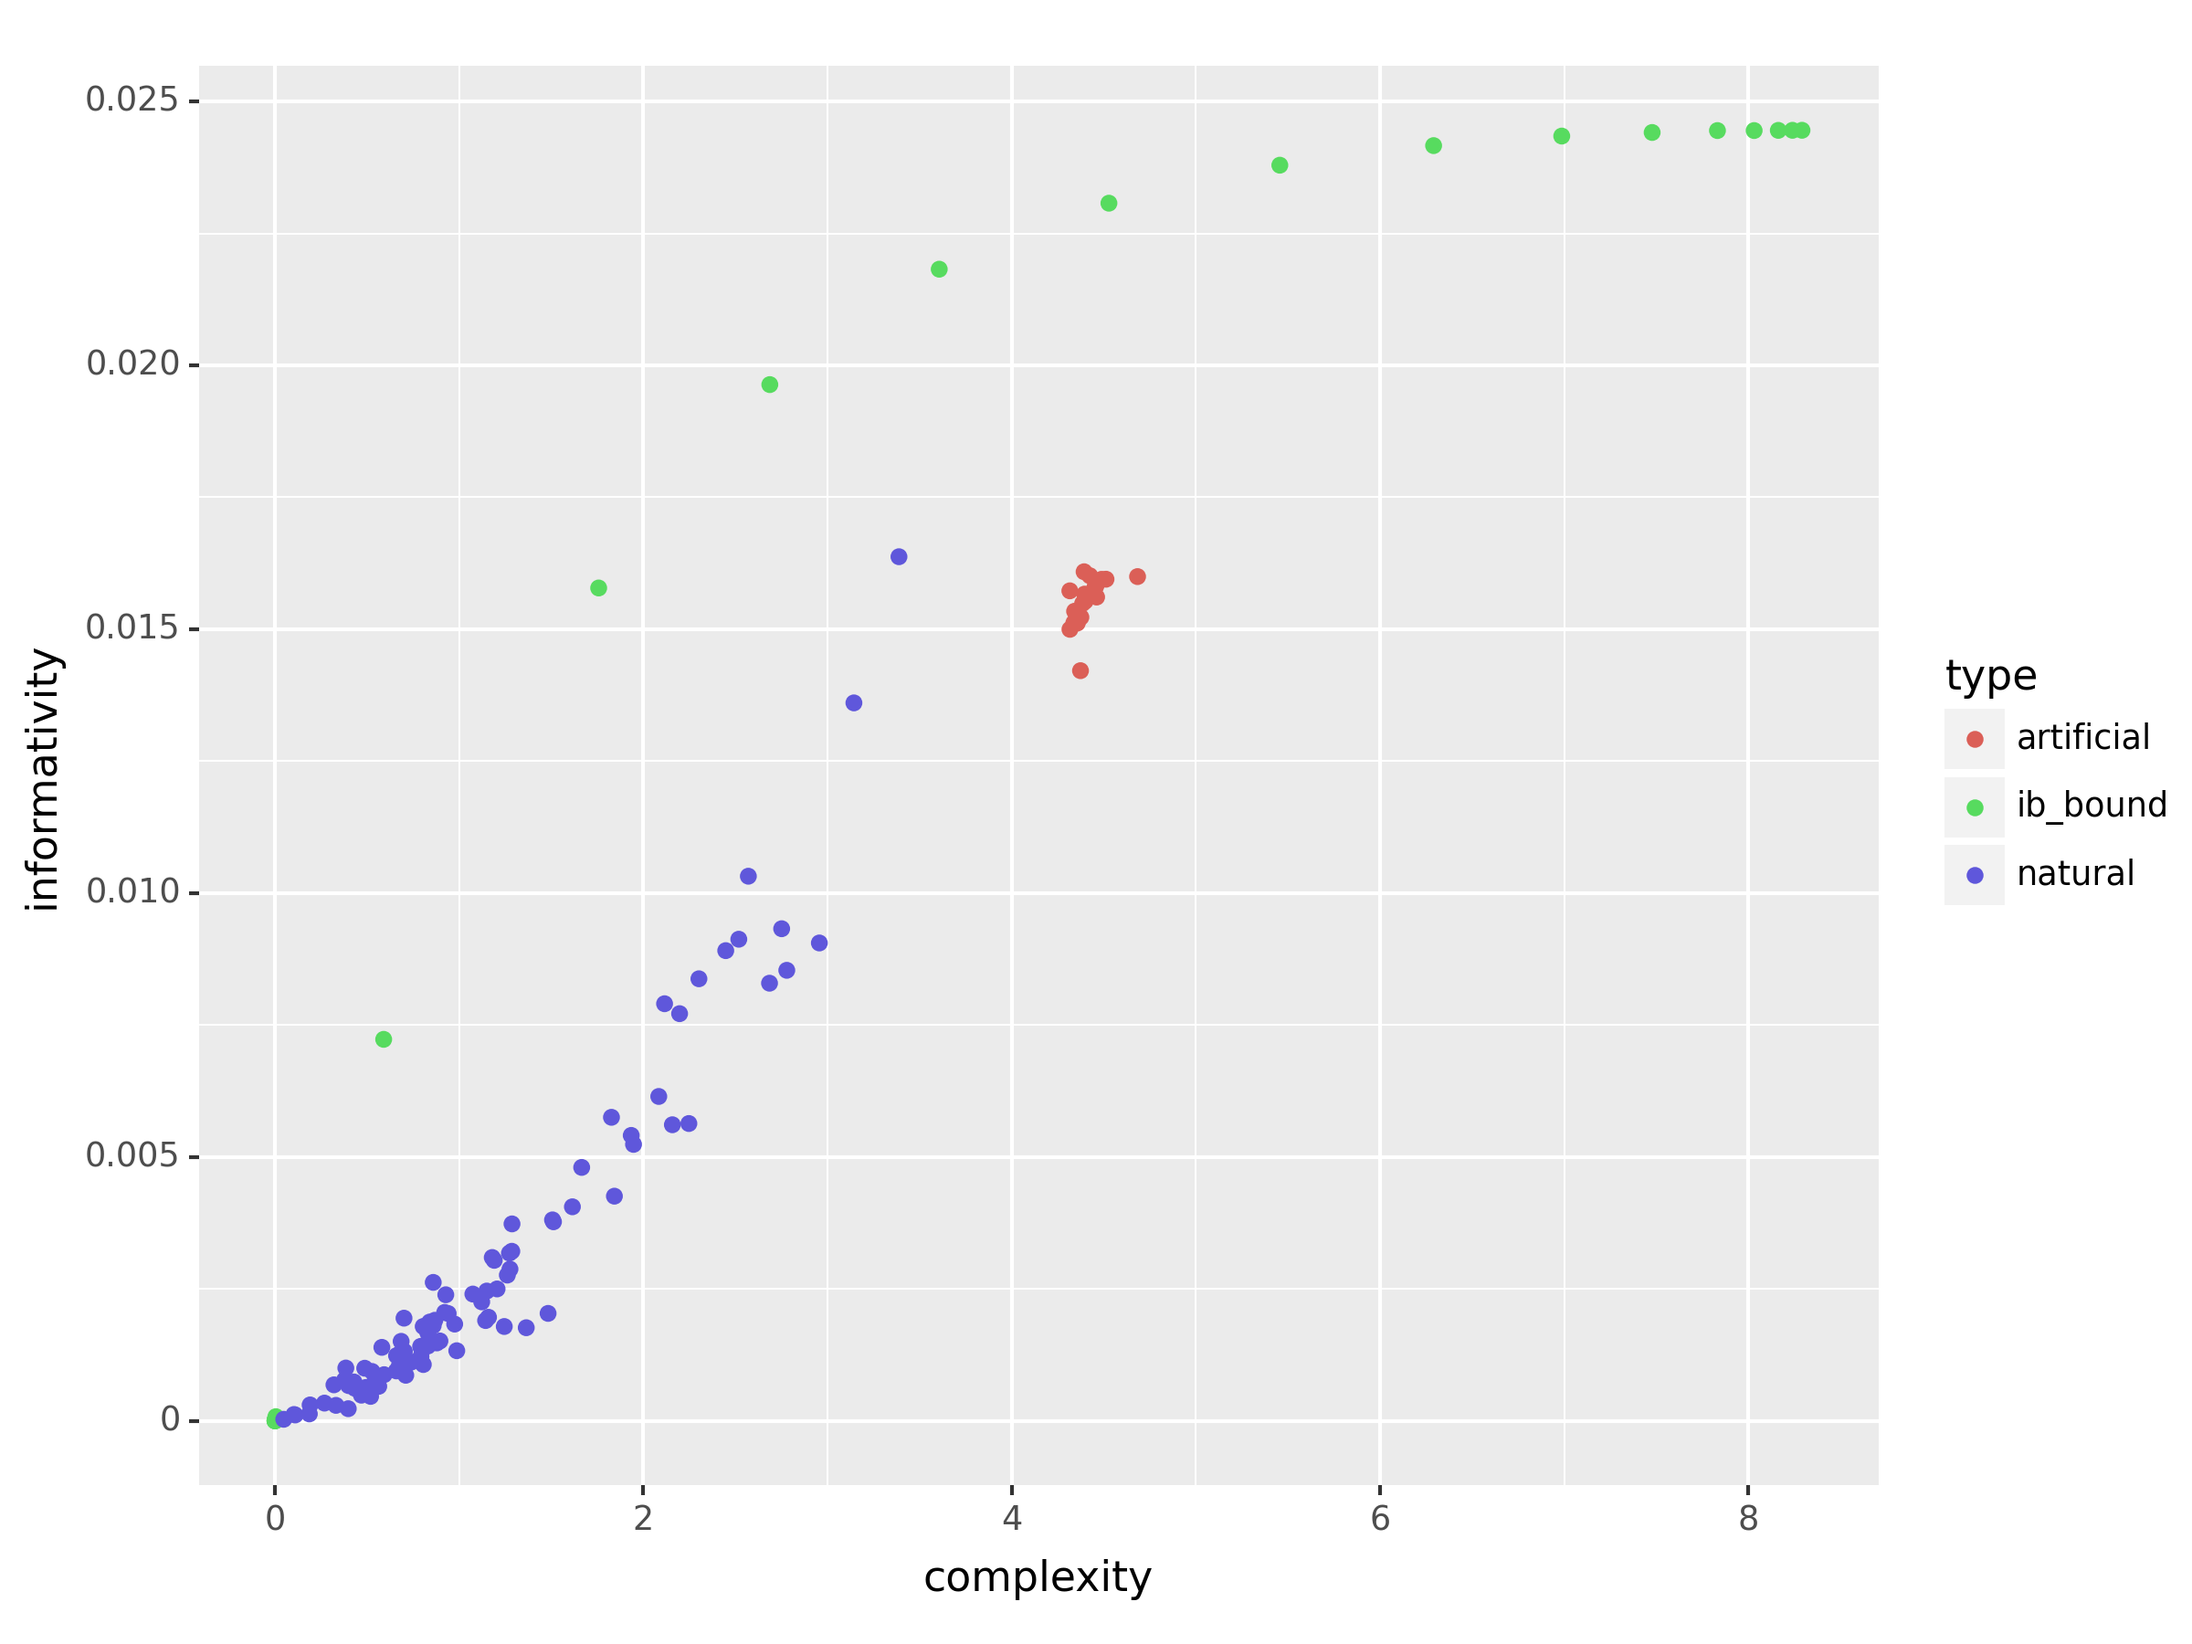
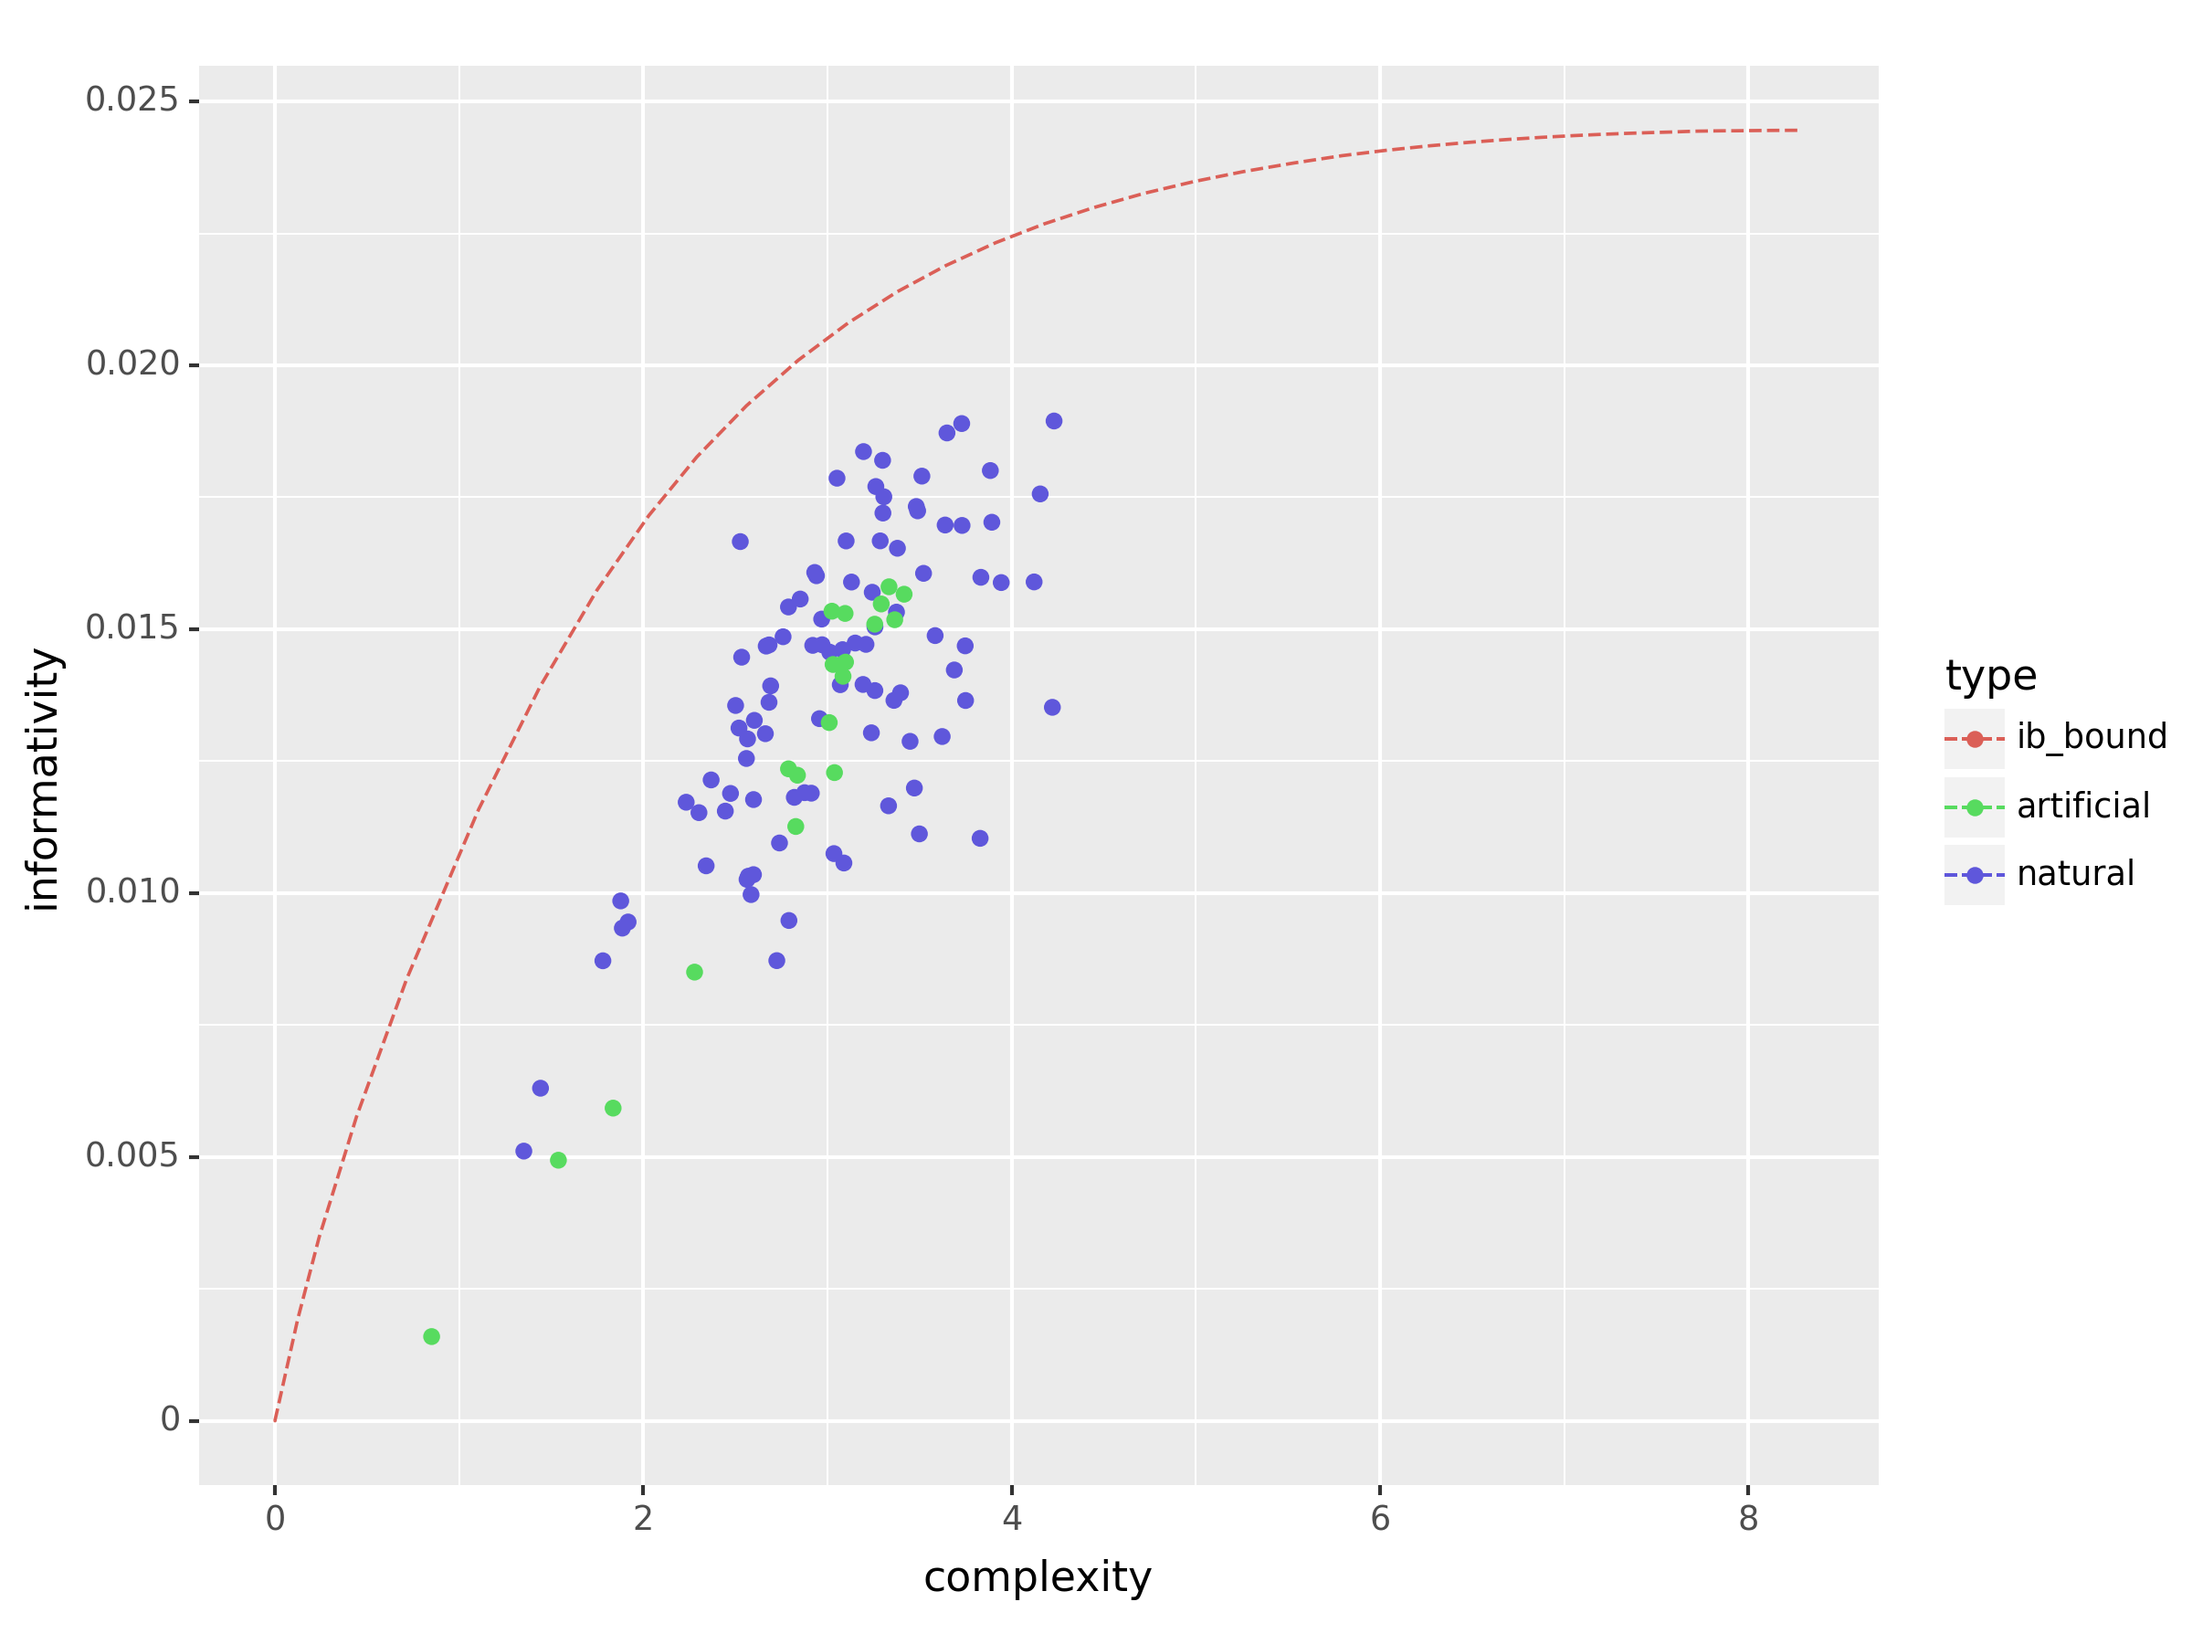
Added centroid color calculation, caching IB bound, settings for artificial languages

diff --git a/src/examples/colors/meaning.py b/src/examples/colors/meaning.py
@@ -259,11 +259,19 @@ for language_code in languages:
             #Use just the information bound metric
             language_data.append((language_name, "natural", ib_point[0], ib_point[1], ib_point[2]))
 
-
+#Calculate the centroid color of each language
+for language_code in languages:
+    language = languages[language_code]
+    language_name = language_name_from_code[language_code]
+    centroid = np.zeros(3)
+    for expression in language.expressions:
+        for referent in expression.meaning.referents:
+            centroid += np.array((referent.L, referent.a, referent.b))
+        centroid /= len(expression.meaning.referents)
+        expression.centroid = centroid
 
 #Generate some fake languages using the real languages as a baseline via permutation
-#artificial_languages = sampling.get_hypothetical_variants(languages=list(languages.values()), total=400)
-artificial_languages = sampling.random_languages(expressions=expression_set, sampling_strategy="stratified", sample_size=20, max_size=25)
+artificial_languages = sampling.random_languages(expressions=expression_set, sampling_strategy="stratified", sample_size=20, max_size=100)
 #Give enumerated names to each of the artificial languages
 for index, artificial_language in enumerate(artificial_languages):
     artificial_language.name = f"artificial_lang_{index}"
@@ -329,13 +337,13 @@ for language_info in languages:
 combined_data = pd.DataFrame(language_data, columns =['name','type','speaker_id','complexity', 'informativity', 'comm_cost'])
 
 """
-
+ib_boundary_points = pd.DataFrame([], columns =['name','type','complexity', 'informativity', 'comm_cost'])
 #Get the IB bound for the specified parameters
 #ib_boundary = rd.get_ib_bound(prior=uniform_prior, meaning_dists=meaning_dists, betas=np.logspace(-2, 2, 10))
 if(GENERATE_IB_BOUND):
     IB_START = -2
     IB_STOP = 5
-    IB_STEP = 30
+    IB_STEP = 100
     betas = np.logspace(IB_START, IB_STOP, IB_STEP)
 
     #If a cached version of the IB bound already exists, load it
@@ -352,10 +360,10 @@ if(GENERATE_IB_BOUND):
         #Save the IB bound to a file
         with open(ib_bound_filename, "wb") as f:
             pickle.dump(ib_boundary, f)
-            
+
     ib_boundary_points = pd.DataFrame([("ib_bound", "ib_bound", ib_point.rate, ib_point.accuracy, ib_point.distortion)
                     for ib_point in ib_boundary if ib_point is not None], columns =['name','type','complexity', 'informativity', 'comm_cost'])
-    combined_data = pd.concat([ib_boundary_points, combined_data])
+    #combined_data = pd.concat([ib_boundary_points, combined_data])
 
 #Combine artificial and natural languages for processing
 languages = languages | {artificial_language.name:artificial_language for artificial_language in artificial_languages}
@@ -384,6 +392,7 @@ if GENERATE_LANG_COLOR_INFO:
 plot = (
     pn.ggplot(pn.aes(x="complexity", y="comm_cost"))
     + pn.geom_point(combined_data, pn.aes(color="type"))
+    + pn.geom_line(ib_boundary_points, pn.aes(color="type"), linetype="dashed")
     + pn.geom_text(
         combined_data[combined_data["type"] == "natural"],
         pn.aes(label="name"),
@@ -397,6 +406,7 @@ plot.save(f"{current_dir}/outputs/complexity-commcost.png", width=8, height=6, d
 
 plot = (
     pn.ggplot(pn.aes(x="complexity", y="informativity"))
+    + pn.geom_line(ib_boundary_points, pn.aes(color="type"), linetype="dashed")
     + pn.geom_point(combined_data, pn.aes(color="type"))
 
     )
@@ -413,6 +423,8 @@ plot.save(f"{current_dir}/outputs/complexity-informativity.png", width=8, height
 
 plot = (
     pn.ggplot(pn.aes(x="informativity", y="comm_cost"))
+    + pn.geom_line(ib_boundary_points, pn.aes(color="type"), linetype="dashed")
+
     + pn.geom_point(combined_data, pn.aes(color="type"))
 
     )
